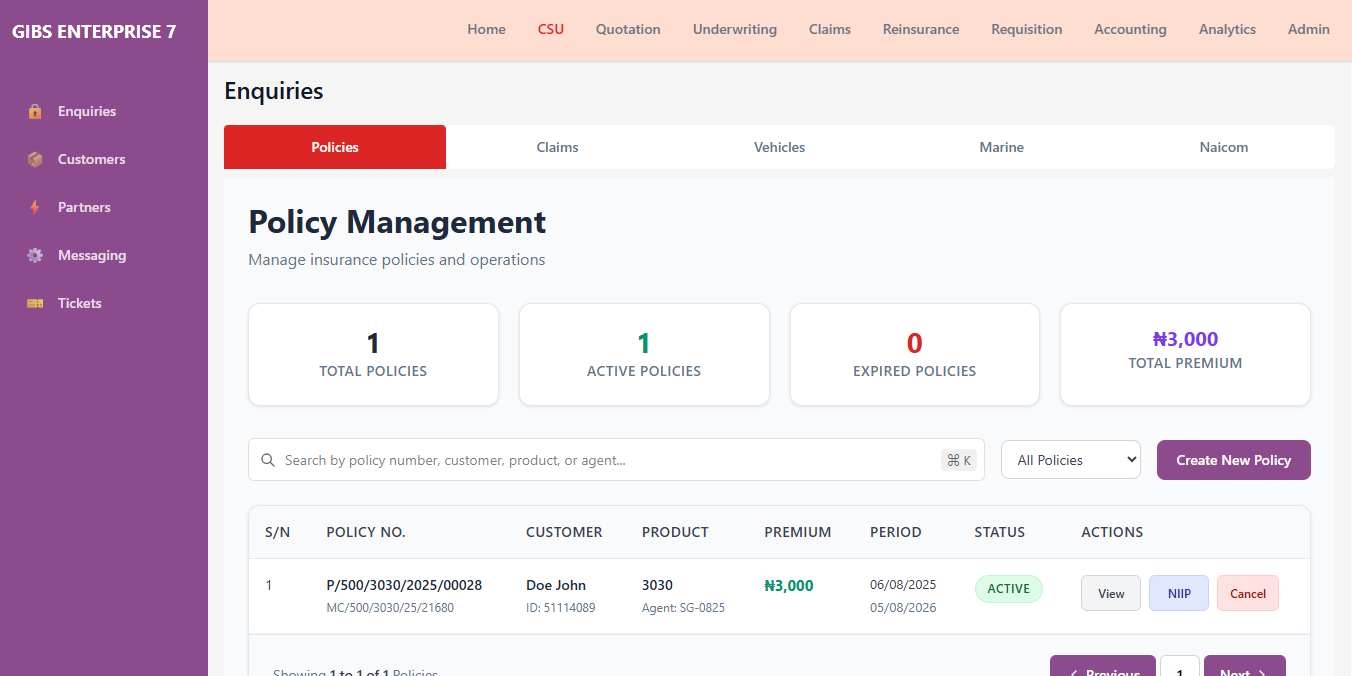
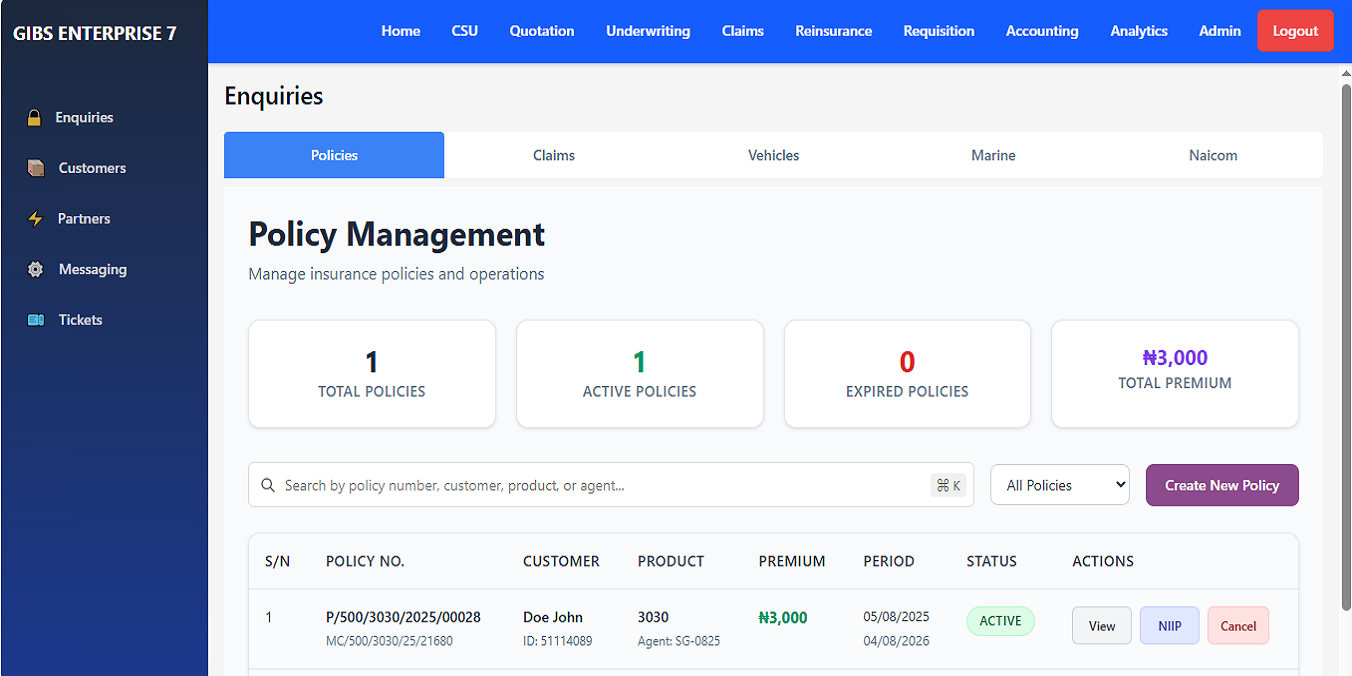
Add user changes to package.json, images, and sidebar components

diff --git a/Giibsnonlife7-main/src/components/quotations/quotations.sidebar.tsx b/Giibsnonlife7-main/src/components/quotations/quotations.sidebar.tsx
@@ -8,7 +8,7 @@ import type { AppDispatch, RootState } from "@/features/store";
 const QuoteSidebar: React.FC = () => {
   const dispatch = useDispatch<AppDispatch>();
   const location = useLocation();
-  const { risks} = useSelector((s: RootState) => s.risks);
+  const { risks } = useSelector((s: RootState) => s.risks);
   const [quotesOpen, setQuotesOpen] = useState(true);
 
   // load risks
@@ -31,13 +31,14 @@ const QuoteSidebar: React.FC = () => {
 
   // helper to detect active link (handles nested routes)
   const isActive = (itemPath: string) =>
-    location.pathname === itemPath || location.pathname.startsWith(itemPath + "/");
+    location.pathname === itemPath ||
+    location.pathname.startsWith(itemPath + "/");
 
   return (
     <aside
       className="
       fixed left-0 top-0 bottom-0 z-100
-      bg-primary text-white
+      bg-blue-900 text-white
       flex flex-col
       overflow-y-auto
       md:w-52 max-md:w-15
@@ -52,45 +53,59 @@ const QuoteSidebar: React.FC = () => {
           <button
             onClick={() => setQuotesOpen((v) => !v)}
             className={`w-full flex items-center justify-between py-3 px-5 text-white/90 no-underline transition-all duration-200 border-l-4 border-transparent hover:bg-white/10 hover:text-white max-md:justify-center max-md:py-4 max-md:px-2.5 ${
-              location.pathname.startsWith("/quotes") ? "bg-white/15 text-white border-l-orange-500" : ""
+              location.pathname.startsWith("/quotes")
+                ? "bg-white/15 text-white border-l-orange-500"
+                : ""
             }`}
             aria-expanded={quotesOpen}
             aria-controls="quotes-submenu"
           >
             <div className="flex items-center">
               <span className="mr-3 text-base max-md:mr-0">🔒</span>
-              <span className="text-sm font-medium max-md:hidden">Quotations</span>
+              <span className="text-sm font-medium max-md:hidden">
+                Quotations
+              </span>
             </div>
-            <span className="text-sm max-md:hidden">{quotesOpen ? "▾" : "▸"}</span>
+            <span className="text-sm max-md:hidden">
+              {quotesOpen ? "▾" : "▸"}
+            </span>
           </button>
 
           <div
             id="quotes-submenu"
-            className={`pl-6 transition-all max-md:hidden ${quotesOpen ? "block" : "hidden"}`}
+            className={`pl-6 transition-all max-md:hidden ${
+              quotesOpen ? "block" : "hidden"
+            }`}
           >
             {!risks && (
-              <div className="py-2 px-2 text-xs text-white/70">Loading risks…</div>
+              <div className="py-2 px-2 text-xs text-white/70">
+                Loading risks…
+              </div>
             )}
 
-            {risks && quotationItems.map((item) => (
-              <Link
-                key={item.id}
-                to={item.path}
-                className={`flex items-center py-2 px-3 text-white/80 no-underline transition-all duration-150 rounded-md hover:bg-white/6 hover:text-white ${
-                  isActive(item.path) ? "bg-white/12 text-white font-semibold" : ""
-                }`}
-              >
-                <span className="mr-3 text-sm">{item.icon}</span>
-                <span className="text-sm max-md:hidden">{item.label}</span>
-              </Link>
-            ))}
+            {risks &&
+              quotationItems.map((item) => (
+                <Link
+                  key={item.id}
+                  to={item.path}
+                  className={`flex items-center py-2 px-3 text-white/80 no-underline transition-all duration-150 rounded-md hover:bg-white/6 hover:text-white ${
+                    isActive(item.path)
+                      ? "bg-white/12 text-white font-semibold"
+                      : ""
+                  }`}
+                >
+                  <span className="mr-3 text-sm">{item.icon}</span>
+                  <span className="text-sm max-md:hidden">{item.label}</span>
+                </Link>
+              ))}
 
             {risks && quotationItems.length === 1 && (
-              <div className="py-2 px-3 text-xs text-white/70">No risk categories found.</div>
+              <div className="py-2 px-3 text-xs text-white/70">
+                No risk categories found.
+              </div>
             )}
           </div>
         </div>
-
       </nav>
     </aside>
   );

diff --git a/Giibsnonlife7-main/src/components/Layout/Header.tsx b/Giibsnonlife7-main/src/components/Layout/Header.tsx
@@ -1,7 +1,7 @@
 import React, { useState } from "react";
 import { NavLink } from "react-router-dom";
 import { Menu, X } from "lucide-react";
-import { Button } from "../UI/new-button"
+import { Button } from "../UI/new-button";
 
 const Header: React.FC = () => {
   const [menuOpen, setMenuOpen] = useState(false);
@@ -10,7 +10,7 @@ const Header: React.FC = () => {
     { title: "Home", link: "/dashboard" },
     { title: "CSU", link: "/csu" },
     { title: "Quotation", link: "/quotations" },
-  { title: "Underwriting", link: "/underwriting" },
+    { title: "Underwriting", link: "/underwriting" },
     { title: "Claims", link: "/claims" },
     { title: "Reinsurance", link: "/re-insurance" },
     { title: "Requisition", link: "/requisition" },
@@ -19,16 +19,17 @@ const Header: React.FC = () => {
     { title: "Admin", link: "/admin" },
   ];
 
-
   const handleLogout = () => {
     localStorage.removeItem("token");
-    window.location.replace("/login");  
-    window.location.replace("/login");  
-    };
-    
-  
+    window.location.replace("/login");
+    window.location.replace("/login");
+  };
+
   return (
-    <header  className="bg-white border-b border-gray-200 px-5 flex items-center justify-between h-16 shadow ml-auto" style={{ backgroundColor: "rgb(255, 206, 187)" }}>
+    <header
+      className="bg-white border-b border-gray-200 px-5 flex items-center justify-between h-16 shadow ml-auto"
+      style={{ backgroundColor: "#155dfd" }}
+    >
       <div className="font-bold text-lg"></div>
 
       <nav className="hidden xl:flex items-center gap-0">
@@ -37,15 +38,22 @@ const Header: React.FC = () => {
             key={index}
             to={item.link}
             className={({ isActive }) =>
-              `px-4 py-2 bg-transparent border-none text-gray-500 text-sm font-medium cursor-pointer transition-all duration-200 ease-in-out border-b-2 border-transparent hover:text-gray-700 hover:bg-gray-50 ${
-                isActive ? "text-secondary border-b-secondary" : ""
+              `px-4 py-2 bg-transparent border-none text-white text-sm font-medium cursor-pointer transition-all duration-200 ease-in-out border-b-2 border-transparent hover:text-[#e0e7ff] hover:bg-[#0b46d4] ${
+                isActive ? "text-blue-600 border-b-blue-600" : ""
               }`
             }
           >
             {item.title}
           </NavLink>
         ))}
-        <Button onClick={()=>{handleLogout();}} variant="destructive">Logout</Button>
+        <Button
+          onClick={() => {
+            handleLogout();
+          }}
+          variant="destructive"
+        >
+          Logout
+        </Button>
       </nav>
       <button
         className="block xl:hidden w-fit p-2 text-black hover:text-gray-800"

diff --git a/Giibsnonlife7-main/src/pages/LoginPage.tsx b/Giibsnonlife7-main/src/pages/LoginPage.tsx
@@ -40,7 +40,6 @@ const LoginPage = () => {
       window.history.go(1);
     };
   }, []);
-    
 
   useEffect(() => {
     const token = localStorage.getItem("token");
@@ -49,7 +48,6 @@ const LoginPage = () => {
     }
  */
   }, [navigate]);
-
 
   const form = useForm<z.infer<typeof loginSchema>>({
     resolver: zodResolver(loginSchema),
@@ -236,7 +234,7 @@ const LoginPage = () => {
       <div className="md:flex-1 flex flex-col justify-center items-center">
         <h1 className="font-sans text-left text-3xl lg:text-5xl text-neutral-darkCharcoal leading-tight lg:leading-[1.2] mb-4 max-w-5xl mx-auto">
           Welcome back to{" "}
-          <span className="bg-gradient-to-r from-[#dc2626] to-[#9254DE] bg-clip-text text-transparent">
+          <span className="bg-gradient-to-r from-blue-400 to-purple-800 bg-clip-text text-transparent">
             GIBS Enterprise
           </span>
         </h1>
@@ -289,7 +287,7 @@ const LoginPage = () => {
             <Button
               // @ts-ignore
               type="submit"
-              className="w-full bg-primary-blue text-white"
+              className="w-full bg-blue-600 hover:bg-blue-700 text-white"
               loading={isLoading}
               disabled={isLoading}
             >
@@ -300,7 +298,7 @@ const LoginPage = () => {
       </div>
       <div className="md:flex-1">
         <div className="bg-neutral-softWhite shadow-navShadow hidden md:block p-6 rounded-lg border border-neutral-lightGray">
-          <span className="text-xs font-semibold text-destructive bg-red-100 px-3 py-1 rounded-full">
+          <span className="text-xs font-semibold text-blue-600 bg-blue-100 px-3 py-1 rounded-full">
             WHAT’S NEW
           </span>
           <div className="border relative overflow-hidden rounded-md mt-6">
@@ -317,7 +315,7 @@ const LoginPage = () => {
           </p>
           <Link
             to="/"
-            className="mt-4 inline-block text-primary-vividBlue font-semibold hover:underline"
+            className="mt-4 inline-block text-blue-600 font-semibold hover:underline"
           >
             Check Us Out →
           </Link>

diff --git a/Giibsnonlife7-main/src/components/admin/admin.sidebar.tsx b/Giibsnonlife7-main/src/components/admin/admin.sidebar.tsx
@@ -13,18 +13,19 @@ const AdminSidebar = () => {
     { path: "settings", label: "Settings", icon: "⚙" },
   ];
   const isActive = (itemPath: string) =>
-    location.pathname === `/${itemPath}` || location.pathname.startsWith(`/${itemPath}/`);
+    location.pathname === `/${itemPath}` ||
+    location.pathname.startsWith(`/${itemPath}/`);
 
   return (
     <aside
       className="
         fixed left-0 top-0 bottom-0 z-100
-        bg-primary text-white
+        bg-blue-900 text-white
         flex flex-col
         overflow-y-auto
         md:w-52 max-md:w-15
       "
-    >      
+    >
       <div className="font-bold text-lg pt-5 pl-3 pb-8">GIBS ENTERPRISE 7</div>
       <nav className="flex-1 py-2.5">
         {menuItems.map((item) => (
@@ -33,7 +34,7 @@ const AdminSidebar = () => {
             to={item.path}
             className={`flex items-center py-3 px-5 text-white/80 no-underline transition-all duration-200 border-l-3 border-transparent hover:bg-white/10 hover:text-white max-md:justify-center max-md:py-4 max-md:px-2.5 ${
               location.pathname === item.path
-                ? "bg-white/15 text-white border-l-orange-500"
+                ? "bg-blue-500/15 text-white border-l-blue-300"
                 : ""
             }`}
           >

diff --git a/Giibsnonlife7-main/src/components/csu/csu.sidebar.tsx b/Giibsnonlife7-main/src/components/csu/csu.sidebar.tsx
@@ -12,18 +12,19 @@ const CSUSidebar = () => {
 
   // helper to check active even for nested routes (e.g. /enquiries/123)
   const isActive = (itemPath: string) =>
-    location.pathname === `/${itemPath}` || location.pathname.startsWith(`/${itemPath}/`);
+    location.pathname === `/${itemPath}` ||
+    location.pathname.startsWith(`/${itemPath}/`);
 
   return (
     <aside
       className="
         fixed left-0 top-0 bottom-0 z-100
-        bg-primary text-white
+        bg-gradient-to-b from-slate-800 to-blue-900 text-white
         flex flex-col
         overflow-y-auto
         md:w-52 max-md:w-15
       "
-    >      
+    >
       <div className="font-bold text-lg pt-5 pl-3 pb-8">GIBS ENTERPRISE 7</div>
       <nav className="flex-1 py-2.5">
         {menuItems.map((item) => (
@@ -37,7 +38,9 @@ const CSUSidebar = () => {
             }`}
           >
             <span className="mr-3 text-base max-md:mr-0">{item.icon}</span>
-            <span className="text-sm font-medium max-md:hidden">{item.label}</span>
+            <span className="text-sm font-medium max-md:hidden">
+              {item.label}
+            </span>
           </Link>
         ))}
       </nav>

diff --git a/Giibsnonlife7-main/src/pages/Home.tsx b/Giibsnonlife7-main/src/pages/Home.tsx
@@ -15,7 +15,10 @@ const HomePage = () => {
     //     </Button>
     //   </div>
     // </div>
-    <div className="bg-gradient-to-b from-primary-vividBlueBg to-background" id="home">
+    <div
+      className="bg-gradient-to-b from-primary-vividBlueBg to-background"
+      id="home"
+    >
       <div className="overflow-clip pt-28 xl:pt-0">
         <div className="mx-auto grid grid-cols-12 items-center gap-2 md:gap-16 md:px-10 xl:w-[1280px] xl:px-2">
           <div className="col-span-12 px-4 md:col-span-7 md:px-0">
